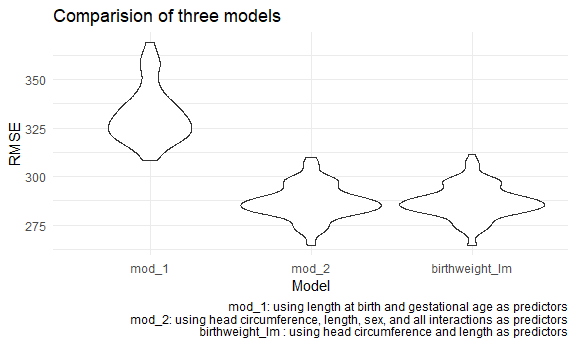
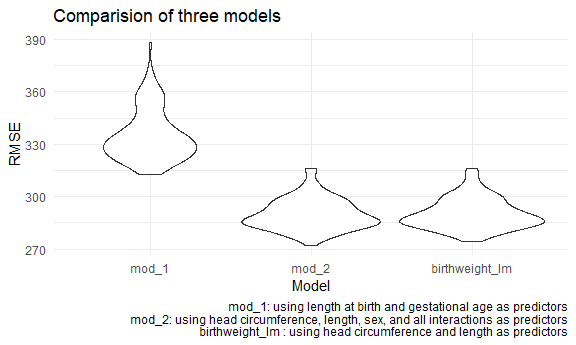
Edit homework.

diff --git a/p8105_hw6_xh2470.md b/p8105_hw6_xh2470.md
@@ -121,7 +121,7 @@ predictors. Third, tidy the resutls and show it in a table.
 modelr::add_residuals(birthweight_lm, fit) %>%
   modelr::add_predictions(fit) %>% 
   ggplot(aes(x = pred, y = resid)) +
-  geom_violin() +
+  geom_point() +
   labs(
     title = "Residuals vs. Fitted Values",
     x = "Prediction",
@@ -146,7 +146,7 @@ birthweight_df =
     test = map(test, as_tibble)) %>% 
    mutate(
     mod_1  = map(train, ~lm(birthweight ~ length + ges_age, data = .x)),
-    mod_2  = map(train, ~lm(birthweight ~ head_circ * sex + length * sex, data = .x)),
+    mod_2  = map(train, ~lm(birthweight ~ head_circ * sex + length * sex + head_circ * sex + head_circ * sex *length, data = .x)),
     birthweight_lm  = map(train, ~lm(birthweight ~ head_circ + length, data = .x))
     ) %>% 
   mutate(
@@ -226,16 +226,16 @@ r_square
     ## # A tibble: 5,000 x 2
     ##    strap_number r.squared
     ##    <chr>            <dbl>
-    ##  1 0001             0.912
-    ##  2 0002             0.908
-    ##  3 0003             0.928
-    ##  4 0004             0.910
-    ##  5 0005             0.910
-    ##  6 0006             0.912
+    ##  1 0001             0.901
+    ##  2 0002             0.911
+    ##  3 0003             0.916
+    ##  4 0004             0.924
+    ##  5 0005             0.892
+    ##  6 0006             0.916
     ##  7 0007             0.905
-    ##  8 0008             0.914
+    ##  8 0008             0.899
     ##  9 0009             0.914
-    ## 10 0010             0.918
+    ## 10 0010             0.904
     ## # ... with 4,990 more rows
 
 ``` r
@@ -258,16 +258,16 @@ intercept
     ## # A tibble: 5,000 x 4
     ##    strap_number beta0_hat beta1_hat   log
     ##    <chr>            <dbl>     <dbl> <dbl>
-    ##  1 0001              6.97      1.05 0.863
-    ##  2 0002              7.49      1.03 0.887
-    ##  3 0003              6.88      1.07 0.865
-    ##  4 0004              7.24      1.03 0.873
-    ##  5 0005              7.27      1.05 0.881
-    ##  6 0006              7.15      1.05 0.875
-    ##  7 0007              7.39      1.04 0.888
-    ##  8 0008              7.18      1.03 0.867
-    ##  9 0009              7.31      1.03 0.877
-    ## 10 0010              6.82      1.05 0.855
+    ##  1 0001              7.27      1.03 0.874
+    ##  2 0002              6.82      1.05 0.854
+    ##  3 0003              7.24      1.05 0.882
+    ##  4 0004              7.14      1.05 0.874
+    ##  5 0005              7.54      1.01 0.881
+    ##  6 0006              7.19      1.04 0.875
+    ##  7 0007              7.14      1.04 0.873
+    ##  8 0008              7.03      1.06 0.873
+    ##  9 0009              7.19      1.04 0.873
+    ## 10 0010              7.21      1.04 0.874
     ## # ... with 4,990 more rows
 
 #### Plot the distribution of estimates.
@@ -317,7 +317,7 @@ r_square_ci
     ## # A tibble: 1 x 2
     ##   ci_lower ci_upper
     ##      <dbl>    <dbl>
-    ## 1    0.894    0.928
+    ## 1    0.894    0.927
 
 ``` r
 intercept_ci = 
@@ -332,9 +332,9 @@ intercept_ci
     ## # A tibble: 1 x 2
     ##   ci_lower ci_upper
     ##      <dbl>    <dbl>
-    ## 1    0.854    0.895
+    ## 1    0.854    0.894
 
 The lower limit and upper limit of 95% confidence interval for r square
-is **0.894** and **0.928**, respectively. The lower limit and upper
+is **0.894** and **0.927**, respectively. The lower limit and upper
 limit of 95% confidence interval for log(beta0 \* beta1) is **0.854**
-and **0.895**, respectively.
+and **0.894**, respectively.
